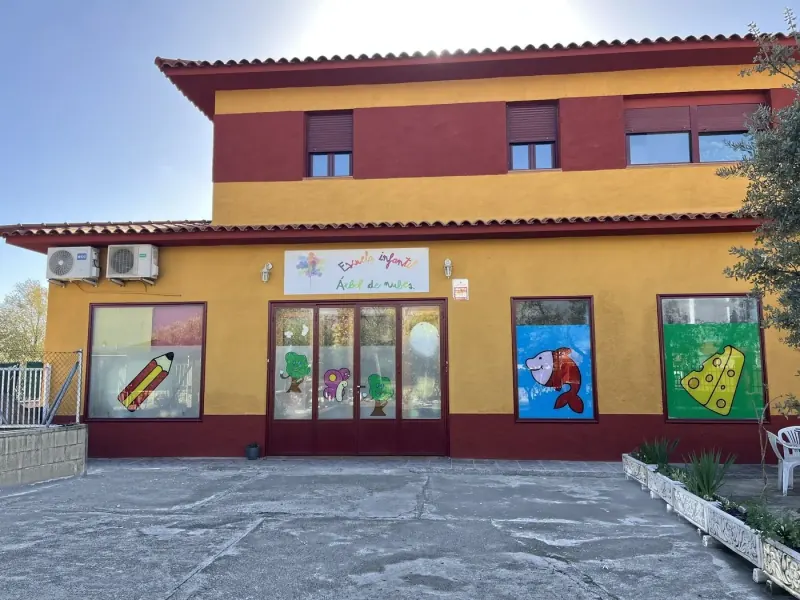
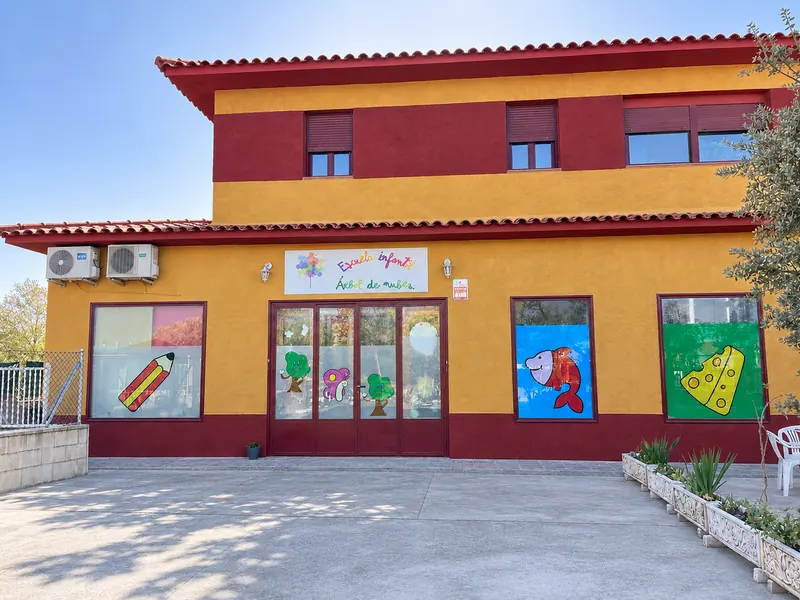
Fachada en cuatro tamaños, CSS dentro del HTML e indexar en Google

diff --git a/src/data/fotos.ts b/src/data/fotos.ts
@@ -21,9 +21,20 @@ function archivos(nombre: string) {
   return { src, srcPequena }
 }
 
+// Un tamaño intermedio de una foto ('fachada-680'…), con el mismo aviso si falta.
+function archivo(nombre: string) {
+  const src = carpeta[`../assets/fotos/${nombre}.webp`]
+  if (!src) throw new Error(`Falta la foto "${nombre}" en src/assets/fotos`)
+  return src
+}
+
 // srcset de una foto: las dos versiones con su ancho real. Con el atributo sizes (cuánto ocupa en pantalla, lo pone
 // cada componente), el navegador elige la justa para esa pantalla y su densidad de píxeles.
-export const srcSet = (foto: Foto) => `${foto.srcPequena} 800w, ${foto.src} ${foto.ancho}w`
+export const srcSet = (foto: Foto) =>
+  [...(foto.tamanosExtra ?? []), { src: foto.srcPequena, ancho: 800 }, { src: foto.src, ancho: foto.ancho }]
+    .sort((a, b) => a.ancho - b.ancho)
+    .map(({ src, ancho }) => `${src} ${ancho}w`)
+    .join(', ')
 
 export type Foto = {
   // La foto a 1400 px (visor, foto grande, móvil a pantalla completa)…
@@ -39,6 +50,9 @@ export type Foto = {
   // Están elegidos para que en escritorio (3 columnas) y en tablet (2) no quede ningún hueco: si se añade o se
   // quita una foto, revisar el encaje de las demás.
   encaje?: 'grande' | 'alta' | 'ancha'
+  // Tamaños intermedios (opcional), para que el navegador baje el justo y no uno de más (PageSpeed, 2026-11-19).
+  // Ninguno es más pequeño de lo que pide la pantalla: se ve igual de nítida.
+  tamanosExtra?: readonly { src: string; ancho: number }[]
 }
 
 // La entrada: solo arriba de La escuela (fotoCabeceraEscuela). Ya no va en la galería (Antonio, 2026-11-17: se veía
@@ -162,13 +176,18 @@ export const fotoEquipo: Foto | null = {
 }
 
 // La escuela desde fuera: en Inicio (junto a "Quiénes somos") y en Contacto, mientras carga el mapa de Google.
-// La definitiva (2026-11-19): de frente, 4:3. Retocada a mano (2026-11-19, con el visto bueno de Antonio): suelo,
-// murete de la izquierda y jardineras blancas de la derecha sin las manchas oscuras; el resto de la fachada, sin tocar. El original ya no existe: si se
-// rehace, partir de este archivo.
+// La definitiva (2026-11-20): de frente, 4:3, la versión mejorada que trajo Antonio (cielo y suelo limpios), con el
+// mismo encuadre que la anterior. El original ya no existe: si se rehace, partir de este archivo.
 export const fotoFachada: Foto | null = {
   ...archivos('fachada'),
   titulo: 'La escuela',
   alt: 'Fachada de la Escuela Infantil Árbol de Nubes: edificio amarillo y rojo con el cartel de la escuela y dibujos en las ventanas',
   ancho: 1400,
   alto: 1050,
+  // Sale grande: 680 px es lo justo para un móvil normal (PageSpeed: 665 px) y 1120 px para el escritorio (la foto
+  // mide 1104 px de ancho como mucho). Sacadas de la misma foto retocada, igual que la de 800 y la de 1400.
+  tamanosExtra: [
+    { src: archivo('fachada-680'), ancho: 680 },
+    { src: archivo('fachada-1120'), ancho: 1120 },
+  ],
 }

diff --git a/vite.config.ts b/vite.config.ts
@@ -54,11 +54,37 @@ function seoDesdeLosDatos(): Plugin {
   }
 }
 
+// CSS dentro del HTML (2026-11-19, PageSpeed móvil: "solicitudes que bloquean el renderizado", ~310 ms). Al compilar,
+// el <link> al CSS se cambia por un <style> con el mismo CSS: el navegador no tiene que pedir otro archivo antes de
+// pintar ni de ejecutar el JavaScript. Se ve igual (son los mismos estilos, en el mismo sitio del <head>). Se puede
+// porque: la CSP permite estilos en el HTML (style-src 'unsafe-inline', public/_headers), las rutas de dentro del CSS
+// son absolutas (/assets/…: las fuentes siguen cargando) y ningún JavaScript pide el archivo CSS. El archivo ya no
+// hace falta y no se publica. Solo al compilar: en `npm run dev`, Vite pone los estilos a su manera.
+function cssDentroDelHtml(): Plugin {
+  return {
+    name: 'css-dentro-del-html',
+    apply: 'build',
+    transformIndexHtml: {
+      order: 'post',
+      handler(html, { bundle }) {
+        if (!bundle) return html
+        return html.replace(/<link rel="stylesheet"[^>]*href="\/([^"]+\.css)"[^>]*>/g, (etiqueta, archivo: string) => {
+          const css = bundle[archivo]
+          if (!css || css.type !== 'asset') return etiqueta // si no lo encuentra, se queda el <link>: nada se rompe
+          delete bundle[archivo]
+          return `<style>${String(css.source)}</style>`
+        })
+      },
+    },
+  }
+}
+
 // https://vite.dev/config/
 export default defineConfig({
   plugins: [
     react(),
     tailwindcss(),
     seoDesdeLosDatos(),
+    cssDentroDelHtml(),
   ],
 })

diff --git a/src/data/site.ts b/src/data/site.ts
@@ -27,9 +27,9 @@ export const site = {
   // pruebas, escuelainfantil.netlify.app.
   web: {
     url: 'https://eiarboldenubes.es',
-    // false mientras se revisa la web: todas las páginas llevan "noindex" y Google no las guarda. Al publicar con el
-    // dominio definitivo, se pone a true (Antonio, 2026-11-18).
-    indexar: false,
+    // Con false, todas las páginas llevan "noindex" y Google no las guarda (así estuvo mientras se revisaba la web).
+    // A true desde que se publica con el dominio definitivo (2026-11-22).
+    indexar: true,
   },
   // Años que lleva abierta la escuela. Las dueñas no saben el año exacto de apertura: "más de 20" (2026-11-13).
   // Por eso es un mínimo y no un año (si fuera un año, se calcularía solo).

diff --git a/CLAUDE.md b/CLAUDE.md
@@ -191,7 +191,7 @@ Elementos de diseño:
 - **Foto de la entrada arriba de La escuela** (2026-11-17, sustituye a la nube con juguetes, que era provisional): en la cabecera (`CabeceraPagina`, prop `foto`; `fotoCabeceraEscuela` en `fotos.ts`), en todos los tamaños: a la derecha de las cifras desde 1280 px y debajo por debajo de eso (`max-w-xl`, alineada con el texto). Ya no va en la galería (2026-11-17: se veía dos veces).
 - **"Algunas actividades"** (Familias, `Actividades.tsx`): 5 fotos impresas con borde blanco, giradas, con chincheta de color y la franja blanca de abajo **sin título** (2026-11-17; el título sale en el visor), **pinchadas en un corcho** (`.corcho`, textura generada por el script). El corcho solo aquí.
 - **Visor de fotos** (`VisorFotos.tsx`, compartido): `<dialog>` con las fotos en una tira con scroll-snap (en móvil se pasan con el dedo), flechas del teclado y **lápices de colores con el `<` `>` pintado** (`LapizFlecha.tsx`, reutilizable): a los lados donde caben (variante `flechas-lado:` de `index.css`: desde 1024 px o móvil en horizontal) y, si no, debajo, junto al título. Sin bucle.
-- **Fachada definitiva** (2026-11-19, de frente, 4:3): en Inicio, en grande bajo el hero (desde sm, recortada sobre todo por abajo para no cortar el tejado: `sm:object-[50%_15%]`), y en Contacto **mientras carga el mapa** de Google. Si se cambia, se cambia en `fotos.ts` y sale sola en los dos sitios.
+- **Fachada definitiva** (2026-11-20, de frente, 4:3; sustituye a la retocada del 19): en Inicio, en grande bajo el hero (desde sm, recortada sobre todo por abajo para no cortar el tejado: `sm:object-[50%_15%]`), y en Contacto **mientras carga el mapa** de Google. Si se cambia, se cambia en `fotos.ts` y sale sola en los dos sitios.
 
 ### Página 404
 Una **pizarra de aula "de las de antes"**: marco de madera (degradados, sin imágenes) y bandeja con tizas y borrador. Escrito a tiza con las piezas del menú (`Tiza.tsx`): "404", el título "Esta página no está en la pizarra" y el texto se escriben **palabra a palabra** (`TextoTiza`: así, aunque el texto ocupe varias líneas, va de arriba abajo y de izquierda a derecha).
@@ -228,6 +228,8 @@ Una **pizarra de aula "de las de antes"**: marco de madera (degradados, sin imá
 - **Metadatos** (título y descripción) en todas las páginas, favicon e imagen para compartir.
 - **SEO desde los datos (2026-11-18):** la dirección de la web (`site.web.url`, con `TODO` hasta el dominio definitivo) y el interruptor `site.web.indexar` viven en `site.ts`. `src/data/seo.ts` construye robots.txt, sitemap.xml (sin la 404) y los datos estructurados JSON-LD (`ChildCare` + `Preschool`: dirección, teléfono, horario de lunes a viernes, redes); el plugin `seoDesdeLosDatos` de `vite.config.ts` los genera al compilar y mete en `index.html` el título, la descripción, el canonical, las `og:*` y el JSON-LD (**en `index.html` no se escribe ningún dato a mano**). `useMetadatos.ts` pone el canonical de cada página; la 404 (`indexar: false` en `paginas.ts`) va sin canonical y con `noindex`. **Mientras `indexar` esté en `false`, todas las páginas llevan `noindex`**. Al publicar con el dominio: cambiar `web.url`, poner `indexar: true`, pasar la Prueba de resultados enriquecidos de Google y dar de alta el sitemap en Search Console.
 - **Precarga del árbol del logo** (`<link rel="preload" … fetchpriority="high">` en `index.html`): es el LCP del hero y la sombra del árbol de fondo; sin ella, el navegador no lo pedía hasta que React había arrancado (LCP en móvil lento simulado: 8,4 → 5,7 s).
+- **CSS dentro del HTML** (2026-11-19, plugin `cssDentroDelHtml` de `vite.config.ts`): al compilar, el CSS va en un `<style>` de `index.html` en vez de un archivo aparte (PageSpeed: "solicitudes que bloquean el renderizado", ~310 ms en móvil). Se ve igual. Funciona porque la CSP permite estilos en el HTML (`style-src 'unsafe-inline'`). Notas oficiales justo antes (Inicio, 2026-11-19): móvil 95/100/100/69, escritorio 100/100/100/69.
+- **Fachada en cuatro tamaños** (680, 800, 1120 y 1400 px; `tamanosExtra` en `fotos.ts`): el navegador baja el justo para cada pantalla.
 - Cualquier página **empieza siempre arriba del todo** al navegar, y no da error al refrescar o abrir directamente.
 - Enlaces externos con `target="_blank"` y `rel="noopener noreferrer"`.
 
